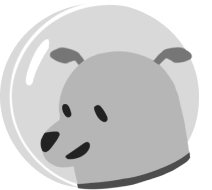
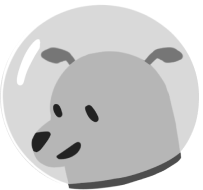
adicionando cachorro na tela de projetos

diff --git a/prototipo1Codesign/styles/projetos.css b/prototipo1Codesign/styles/projetos.css
@@ -52,8 +52,8 @@ body{
 #balaoprojetos{
     width: 33.94vw;
     height: 6.79vw;
-    margin-left: 36.65vw;
-    margin-top: -12.91vw;
+    margin-left: 36.95vw;
+    margin-top: -11.45vw;
 }
 
 #balaoprojetos > img{
@@ -67,6 +67,18 @@ body{
     height: 3.22vw;
     margin-top: -5.4vw;
     margin-left: 1.84vw;
+}
+
+#cachorroprojetos{
+    width: 10.36vw;
+    height: 9.7vw;
+    margin-left: 71.92vw;
+    margin-top: -12.45vw;
+}
+
+#cachorroprojetos > img{
+    width: 10.36vw;
+    height: 9.7vw;
 }
 
 

diff --git a/prototipo1Codesign/projetos.html b/prototipo1Codesign/projetos.html
@@ -23,6 +23,9 @@
       <img src="source/balaoprojetos.png">
       <p>Olha só! Aqui você pode encontrar algumas produções do SMD.</p>
     </div>
+    <div id="cachorroprojetos">
+      <img src="source/cachorroprojetos.png">
+    </div>
   </div>
 
   <div class="bloco1">
